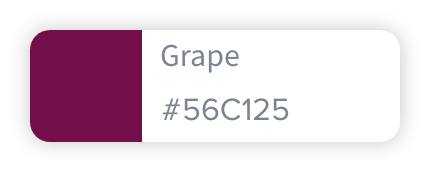
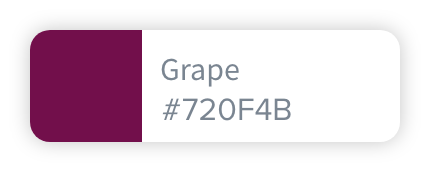
TST-579 Updated the styleguide with new colors and guidelines Added new color images Updated disabled text color in config

Changed region(s): [[0.4233, 0.5523, 0.6953, 0.7267], [0.3628, 0.2616, 0.5744, 0.4942]]

diff --git a/templates/pages/custom/page/styleguide.html b/templates/pages/custom/page/styleguide.html
@@ -25,14 +25,10 @@
                         <dd><img src="{{cdn 'assets/img/colors/color-container-burgundy@2x.png'}}" alt="Burgundy"/></dd>
                         <dd><img src="{{cdn 'assets/img/colors/color-container-butterscotch@2x.png'}}" alt="Butterscotch"/></dd>
                         <dd><img src="{{cdn 'assets/img/colors/color-container-grape@2x.png'}}" alt="Grape"/></dd>
+                        <dd><img src="{{cdn 'assets/img/colors/color-container-burntcaramel@2x.png'}}" alt="Burnt Caramel"/></dd>
                         <dd><img src="{{cdn 'assets/img/colors/color-container-caramel@2x.png'}}" alt="Caramel"/></dd>
                         <dd><img src="{{cdn 'assets/img/colors/color-container-cream@2x.png'}}" alt="Cream"/></dd>
                         <dd><img src="{{cdn 'assets/img/colors/color-container-brown@2x.png'}}" alt="Brown"/></dd>
-                    </div>
-                </dl>
-                <dl>
-                    <dt class="guide-label">Secondary</dt>
-                    <div>
                         <dd><img src="{{cdn 'assets/img/colors/color-container-berry@2x.png'}}" alt="Berry"/></dd>
                         <dd><img src="{{cdn 'assets/img/colors/color-container-orange@2x.png'}}" alt="Orange"/></dd>
                         <dd><img src="{{cdn 'assets/img/colors/color-container-banana@2x.png'}}" alt="Banana"/></dd>
@@ -45,6 +41,8 @@
                         <dd><img src="{{cdn 'assets/img/colors/color-container-silver@2x.png'}}" alt="Silver"/></dd>
                         <dd><img src="{{cdn 'assets/img/colors/color-container-gainsboro@2x.png'}}" alt="Gainsboro"/></dd>
                         <dd><img src="{{cdn 'assets/img/colors/color-container-wanwhite@2x.png'}}" alt="Wan White"/></dd>
+                        <dd><img src="{{cdn 'assets/img/colors/color-container-white@2x.png'}}" alt="White"/></dd>
+                        <dd><img src="{{cdn 'assets/img/colors/color-container-davysgray@2x.png'}}" alt="Davy's Gray"/></dd>
                         <dd><img src="{{cdn 'assets/img/colors/color-container-textgray@2x.png'}}" alt="Text Gray"/></dd>
                     </div>
                 </dl>
@@ -56,6 +54,57 @@
                         <dd><img src="{{cdn 'assets/img/colors/color-container-utilityblue@2x.png'}}" alt="Utility Blue"/></dd>
                     </div>
                 </dl>
+                <div class="styleguidecolor-matching">
+                    <p>As a designer it's important to know which colors can safely be used together while still passing ADA Contrast validation. Below are the combinations that are acceptable:</p>
+                    <dl>
+                        <dt class="guide-label">Acceptable Dark Background Colors</dt>
+                        <div>
+                            <dd><img src="{{cdn 'assets/img/colors/color-container-tealhover@2x.png'}}" alt="Teal Hover"/></dd>
+                            <dd><img src="{{cdn 'assets/img/colors/color-container-textgray@2x.png'}}" alt="Text Gray"/></dd>
+                            <dd><img src="{{cdn 'assets/img/colors/color-container-burgundy@2x.png'}}" alt="Burgundy"/></dd>
+                            <dd><img src="{{cdn 'assets/img/colors/color-container-burntcaramel@2x.png'}}" alt="Burnt Caramel"/></dd>
+                            <dd><img src="{{cdn 'assets/img/colors/color-container-grape@2x.png'}}" alt="Grape"/></dd>
+                        </div>
+                    </dl>
+                    <dl>
+                        <dt class="guide-label">Acceptable Light Text Colors</dt>
+                        <div>
+                            <dd><img src="{{cdn 'assets/img/colors/color-container-white@2x.png'}}" alt="White"/></dd>
+                            <dd><img src="{{cdn 'assets/img/colors/color-container-wanwhite@2x.png'}}" alt="Wan White"/></dd>
+                        </div>
+                    </dl>
+                    <dl>
+                        <dt class="guide-label">Acceptable Light Background Colors</dt>
+                        <div>
+                            <dd><img src="{{cdn 'assets/img/colors/color-container-wanwhite@2x.png'}}" alt="Wan White"/></dd>
+                            <dd><img src="{{cdn 'assets/img/colors/color-container-white@2x.png'}}" alt="White"/></dd>
+                        </div>
+                    </dl>
+                    <dl>
+                        <dt class="guide-label">Acceptable Dark Text Colors</dt>
+                        <div>
+                            <dd><img src="{{cdn 'assets/img/colors/color-container-tealhover@2x.png'}}" alt="Teal Hover"/></dd>
+                            <dd><img src="{{cdn 'assets/img/colors/color-container-textgray@2x.png'}}" alt="Text Gray"/></dd>
+                            <dd><img src="{{cdn 'assets/img/colors/color-container-davysgray@2x.png'}}" alt="Davy's Gray"/></dd>
+                            <dd><img src="{{cdn 'assets/img/colors/color-container-burgundy@2x.png'}}" alt="Burgundy"/></dd>
+                        </div>
+                    </dl>
+                    <dl>
+                        <dt class="guide-label">Acceptable Medium Background Colors</dt>
+                        <div>
+                            <dd><img src="{{cdn 'assets/img/colors/color-container-cream@2x.png'}}" alt="Cream"/></dd>
+                            <dd><img src="{{cdn 'assets/img/colors/color-container-gainsboro@2x.png'}}" alt="Gainsboro"/></dd>
+                        </div>
+                    </dl>
+                    <dl>
+                        <dt class="guide-label">Acceptable Dark Text Colors</dt>
+                        <div>
+                            <dd><img src="{{cdn 'assets/img/colors/color-container-tealhover@2x.png'}}" alt="Teal Hover"/></dd>
+                            <dd><img src="{{cdn 'assets/img/colors/color-container-textgray@2x.png'}}" alt="Text Gray"/></dd>
+                            <dd><img src="{{cdn 'assets/img/colors/color-container-burgundy@2x.png'}}" alt="Burgundy"/></dd>
+                        </div>
+                    </dl>
+                </div>
             </div>
         </div>
         <div class="style-item style-typography">
@@ -376,14 +425,20 @@
                         <span class="guide-label">Primary</span>
                         <button class="button-primary">sign up to host</button>
                         <p class="guide-label">class: button-primary</p>
+                        <p class="guide-label">bg hex: #7f4252</p>
+                        <p class="guide-label">txt hex: #ffffff</p>
                     </div>
                     <div>
                         <span class="guide-label">Hover</span>
                         <button class="button-primary hover">sign up to host</button>
+                        <p class="guide-label">bg hex: #610b31</p>
+                        <p class="guide-label">txt hex: #ffffff</p>
                     </div>
                     <div>
                         <span class="guide-label">Disabled</span>
                         <button class="button-primary disabled" disabled>sign up to host</button>
+                        <p class="guide-label">bg hex: #e2e2e2</p>
+                        <p class="guide-label">txt hex: #575757</p>
                     </div>
                 </div>
                 <div class="stylebutton-item">
@@ -392,14 +447,20 @@
                         <span class="guide-label">Secondary</span>
                         <button class="button-secondary">sign up to host</button>
                         <p class="guide-label">class: button-secondary</p>
+                        <p class="guide-label">bg hex: #00757d</p>
+                        <p class="guide-label">txt hex: #ffffff</p>
                     </div>
                     <div>
                         <span class="guide-label">Hover</span>
                         <button class="button-secondary hover">sign up to host</button>
+                        <p class="guide-label">bg hex: #00757d</p>
+                        <p class="guide-label">txt hex: #ffffff</p>
                     </div>
                     <div>
                         <span class="guide-label">Disabled</span>
                         <button class="button-secondary" disabled>sign up to host</button>
+                        <p class="guide-label">bg hex: #e2e2e2</p>
+                        <p class="guide-label">txt hex: #575757</p>
                     </div>
                     <div>
                         <span class="guide-label">With Icon</span>
@@ -413,14 +474,20 @@
                         <span class="guide-label">Alternate</span>
                         <button class="button-alternate">sign up to host</button>
                         <p class="guide-label">class: button-alternate</p>
+                        <p class="guide-label">bg hex: #6e7a06</p>
+                        <p class="guide-label">txt hex: #ffffff</p>
                     </div>
                     <div>
                         <span class="guide-label">Hover</span>
                         <button class="button-alternate hover">sign up to host</button>
+                        <p class="guide-label">bg hex: #859407</p>
+                        <p class="guide-label">txt hex: #ffffff</p>
                     </div>
                     <div>
                         <span class="guide-label">Disabled</span>
                         <button class="button-alternate" disabled>sign up to host</button>
+                        <p class="guide-label">bg hex: #e2e2e2</p>
+                        <p class="guide-label">txt hex: #575757</p>
                     </div>
                     <div>
                         <span class="guide-label">Alternate Disabled</span>
@@ -465,18 +532,21 @@
                     </label>
                     <span class="guide-label">label class: input-label</span>
                     <span class="guide-label">input class: input-active</span>
+                    <span class="guide-label">border hex: #3473da</span>
                     <label class="input-confirmed">
                         <span>Confirmed</span>
                         <input class="input-confirmed" type="text" placeholder="Input Value"/>
                         <span class="fas fa-check"></span>
                     </label>
                     <span class="guide-label">class: input-confirmed</span>
+                    <span class="guide-label">border hex: #028840</span>
                     <label class="input-error">
                         <span>Error</span>
                         <input class="input-error" type="text" placeholder="Input Value"/>
                         <span class="fas fa-exclamation"></span>
                     </label>
                     <span class="guide-label">class: input-error</span>
+                    <span class="guide-label">border hex: #d0021b</span>
                 </div>
                 <div class="styleinput-item">
                     <div class="simple-dropdown">
